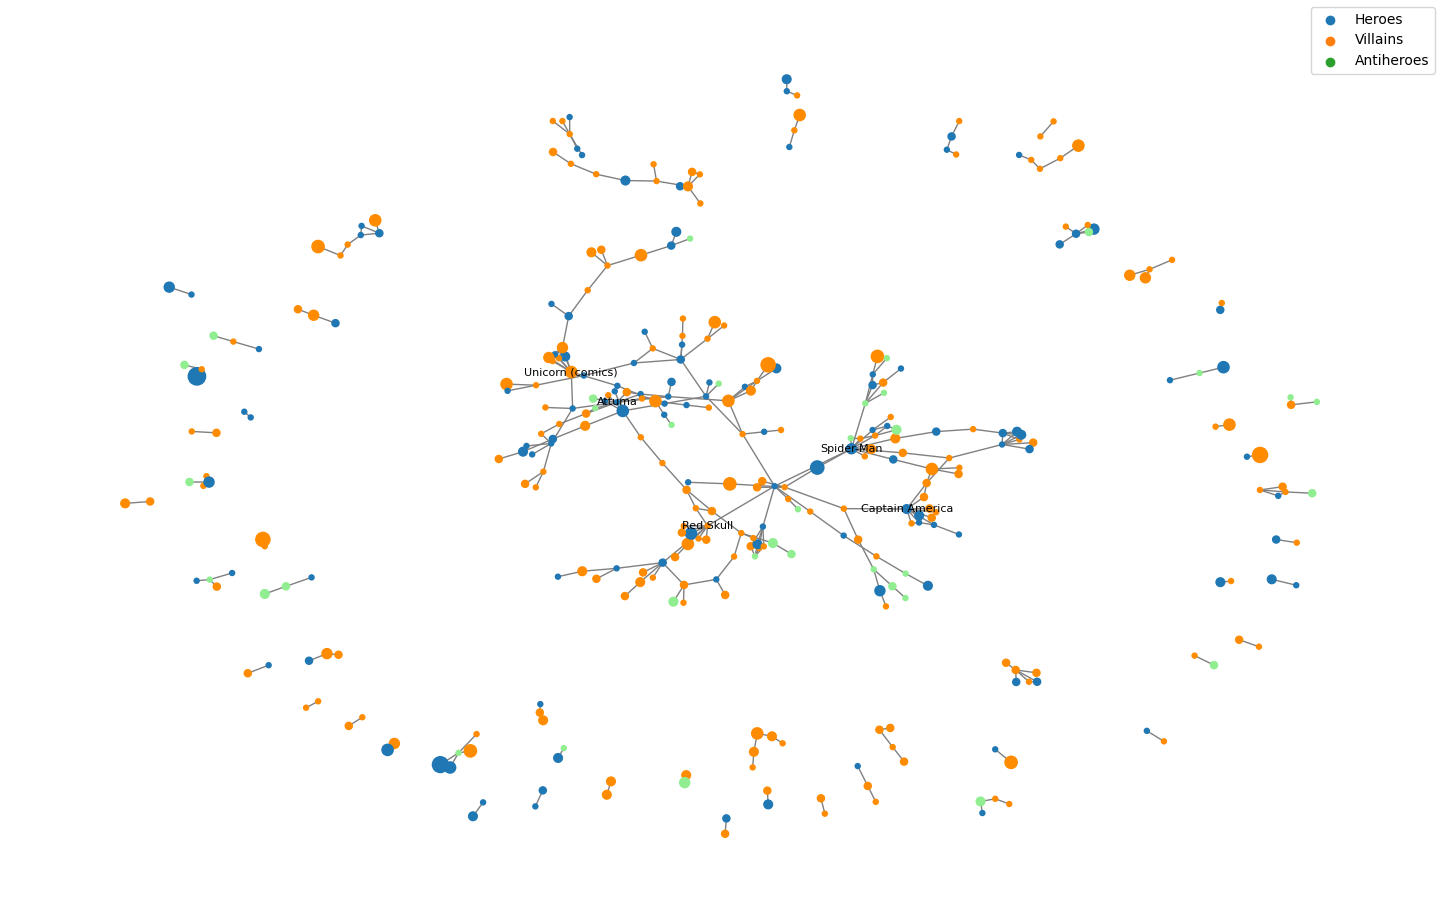
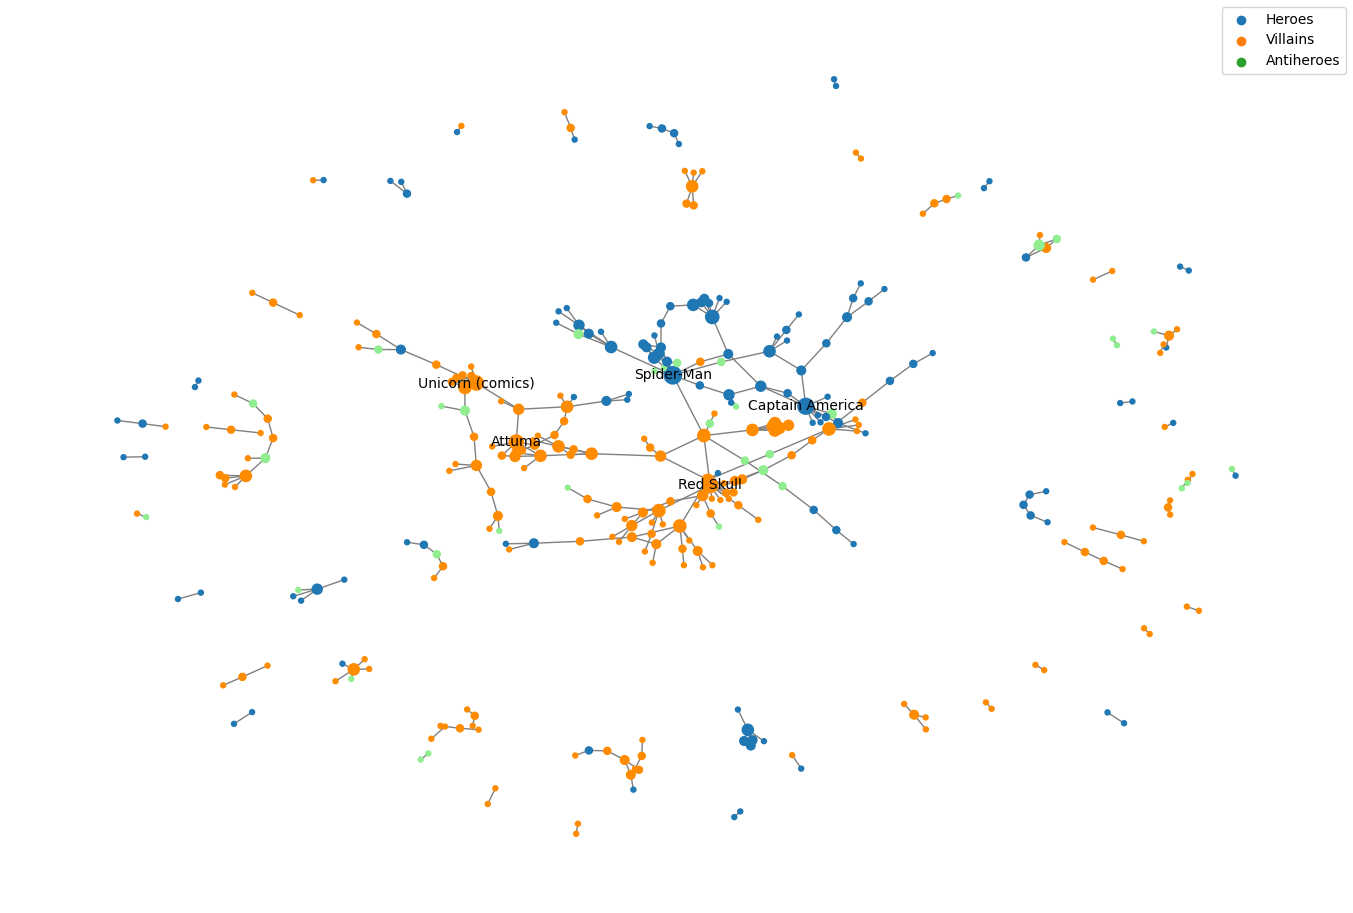
modify graph

diff --git a/graph.py b/graph.py
@@ -6,13 +6,17 @@ import matplotlib
 
 df_nodes = pd.read_csv("./graph_dataset/nodes.csv")
 df_edges = pd.read_csv("./graph_dataset/edges.csv")
+# df = pd.merge(df_nodes,df_edges,on='source').reset_index(drop=True)
 
 # print(df_nodes, df_edges)
 
 labels={}
+# color_map = []
 
 # Creating a graph from the dataframe.
 G = nx.from_pandas_edgelist(df_edges, 'source', 'target', create_using=nx.Graph())
+df_nodes = df_nodes.set_index('id')
+df_nodes = df_nodes.reindex(G.nodes())
 
 # Creating a dictionary of labels for the nodes.
 for node in G.nodes():
